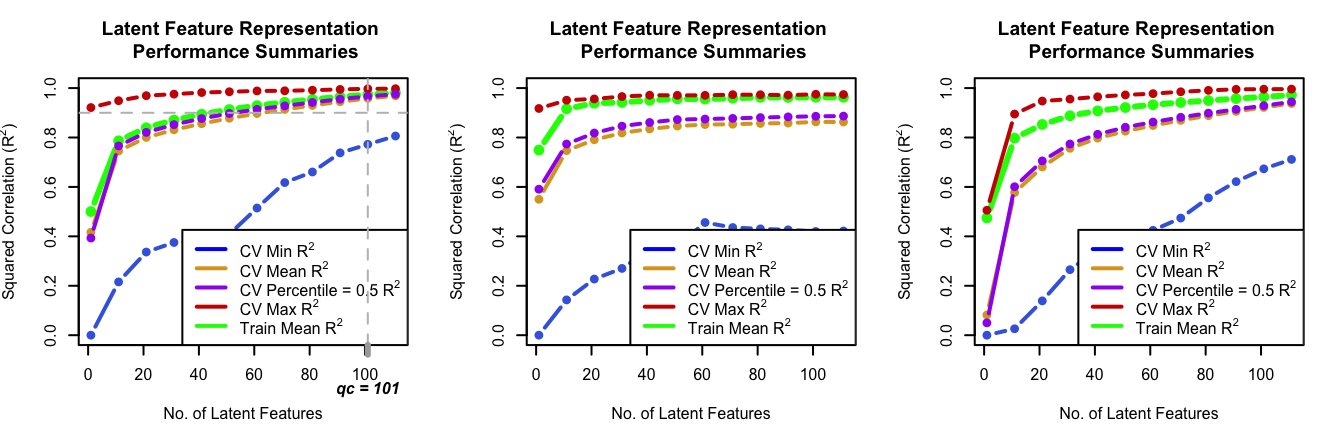
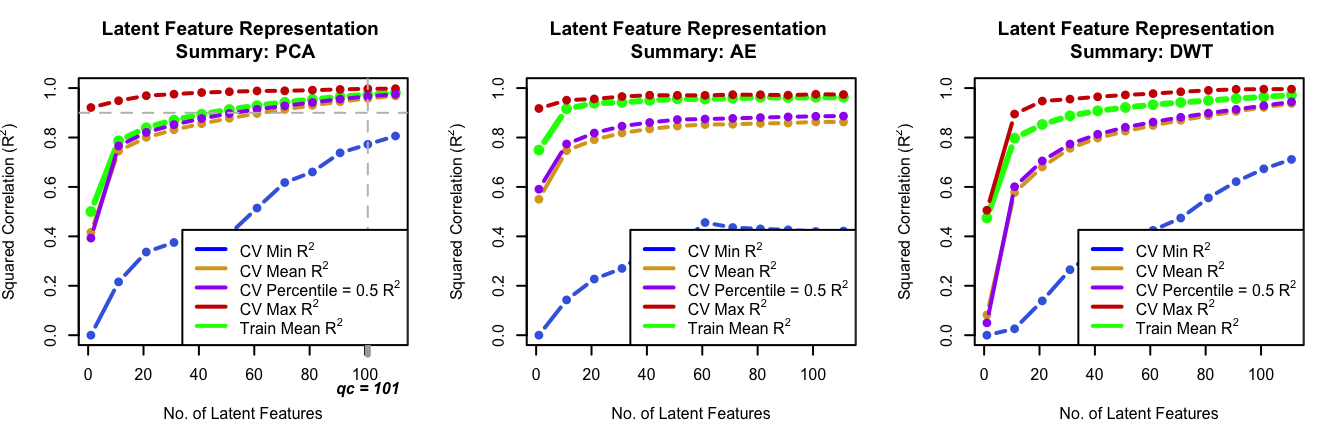
update demos in README.

Changed region(s): [[0.75, 0.088, 0.9375, 0.1467], [0.0938, 0.088, 0.2812, 0.1467], [0.4375, 0.088, 0.5938, 0.1467]]

diff --git a/README.md b/README.md
@@ -39,7 +39,8 @@ We use the Phenoeme dataset for this example (see
 
 ``` r
 # Phoenome dataset:
-PH <- readr::read_table(file = "https://www.math.univ-toulouse.fr/~ferraty/SOFTWARES/NPFDA/npfda-phoneme.dat", col_names = FALSE)
+PH_path <- "https://www.math.univ-toulouse.fr/~ferraty/SOFTWARES/NPFDA/npfda-phoneme.dat"
+PH <- readr::read_table(file = PH_path, col_names = FALSE)
 PH <- as.matrix(PH)[, 1:150]
 par(mfrow = c(1, 1))
 matplot(t(PH)[, sample(1:nrow(PH), size = 20)], type = "l", xlab = "Freq.", ylab = "Log-periodogram")
@@ -69,7 +70,7 @@ ph_pca <- GLaRe(
 ## autoencoder
 ph_ae <- GLaRe(
   mat = PH,
-  learn = "autoencoder",
+  learn = "ae",
   kf = 5,
   sqcorrel = c("trainmean", "cvmean", "cvmin", "cvmax"),
   cvqlines = 0.5,
@@ -79,8 +80,8 @@ ph_ae <- GLaRe(
   lim = 120,
   ae_args = list(link_fun = "linear", epoch = 50),
   verbose = FALSE)
-#> Warning in GLaRe(mat = PH, learn = "autoencoder", kf = 5, sqcorrel =
-#> c("trainmean", : No qualifying criterion found, try adjusting parameters.
+#> Warning in GLaRe(mat = PH, learn = "ae", kf = 5, sqcorrel = c("trainmean", : No
+#> qualifying criterion found, try adjusting parameters.
 ```
 
 ``` r
@@ -116,7 +117,6 @@ matplot(t(DTI), type = "l")
 <img src="man/figures/README-unnamed-chunk-4-1.png" width="50%" />
 
 ``` r
-# run GLaRe
 par(mfrow = c(1, 3), cex = 0.5) # side-by-side plots
 DTI_pca <- GLaRe(
   mat = DTI,
@@ -132,7 +132,7 @@ DTI_pca <- GLaRe(
 
 DTI_ae <- GLaRe(
   mat = DTI,
-  learn = "autoencoder",
+  learn = "ae",
   kf = 5,
   sqcorrel = c("trainmean", "cvmean", "cvmin", "cvmax"),
   cvqlines = 0.5,
@@ -142,8 +142,8 @@ DTI_ae <- GLaRe(
   lim = 93,
   ae_args = list(link_fun = "linear", epoch = 50),
   verbose = FALSE)
-#> Warning in GLaRe(mat = DTI, learn = "autoencoder", kf = 5, sqcorrel =
-#> c("trainmean", : No qualifying criterion found, try adjusting parameters.
+#> Warning in GLaRe(mat = DTI, learn = "ae", kf = 5, sqcorrel = c("trainmean", :
+#> No qualifying criterion found, try adjusting parameters.
 ```
 
 ``` r
